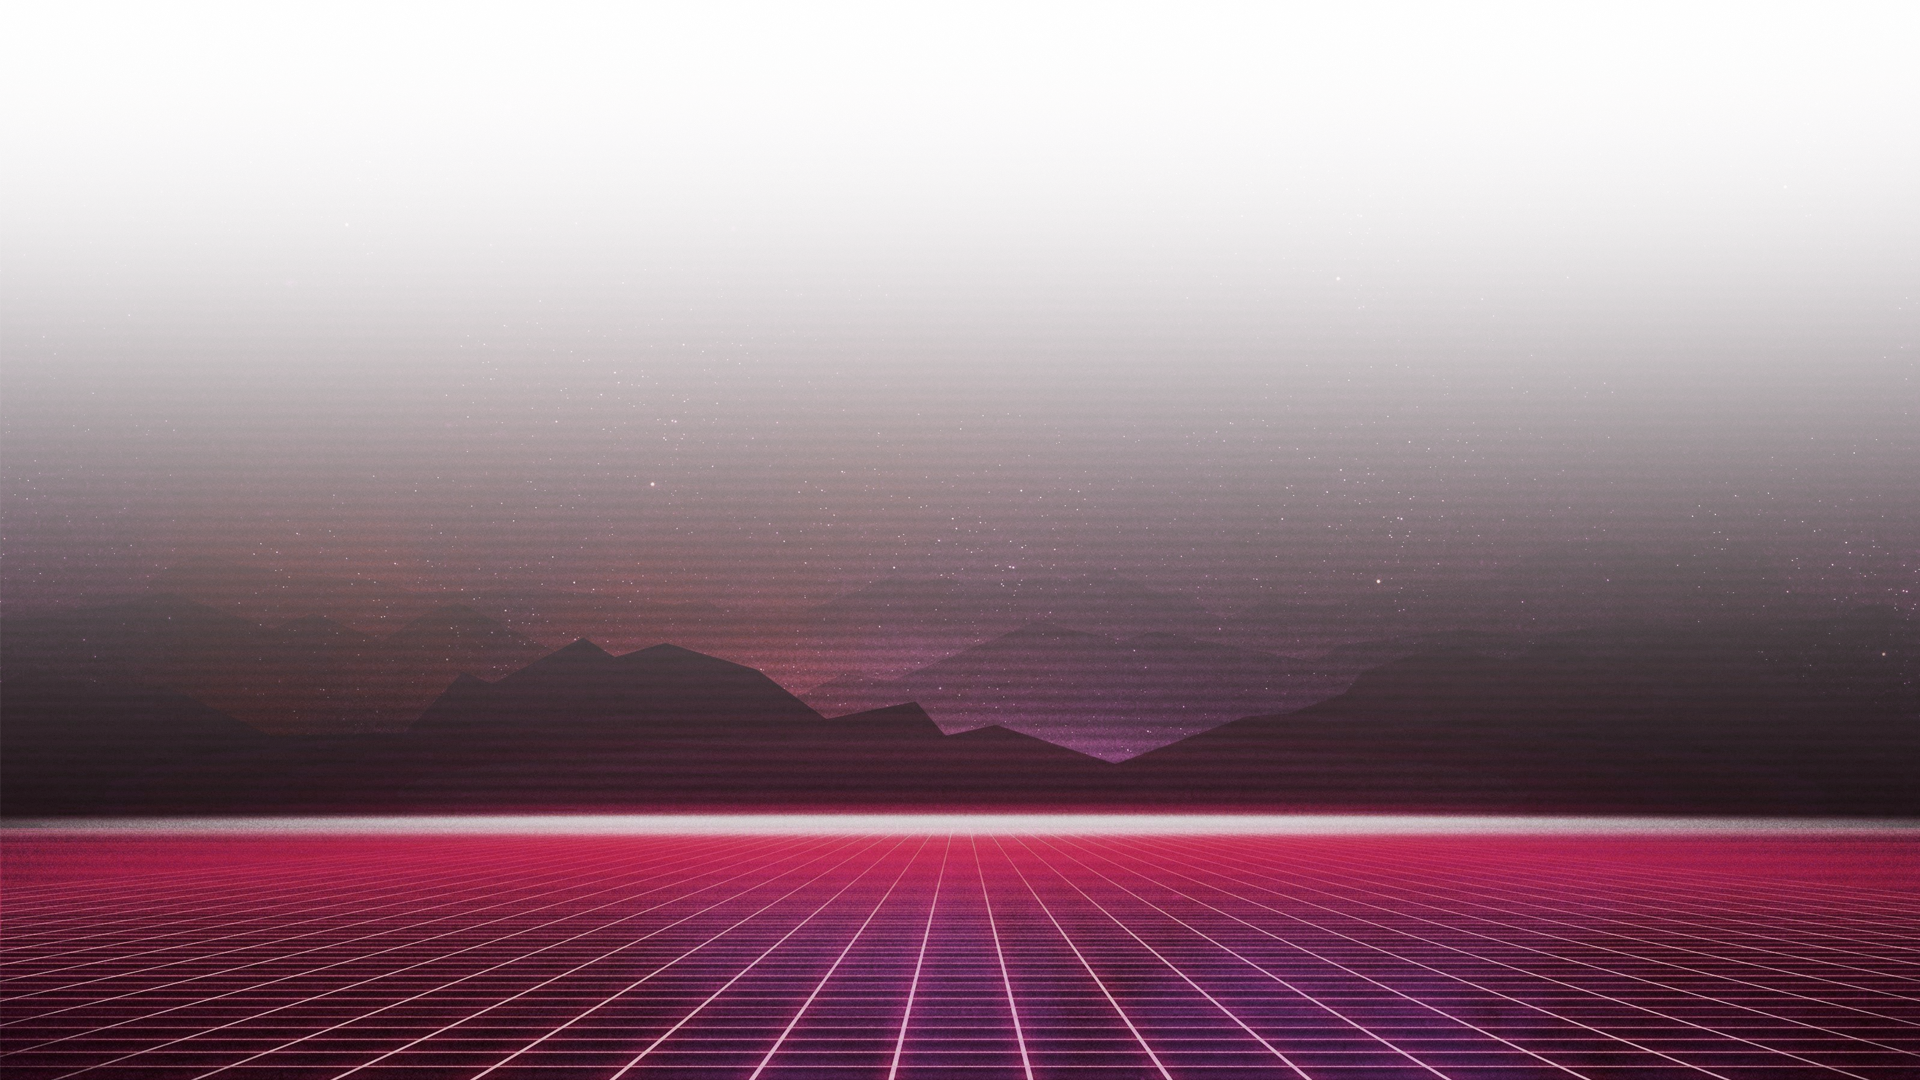
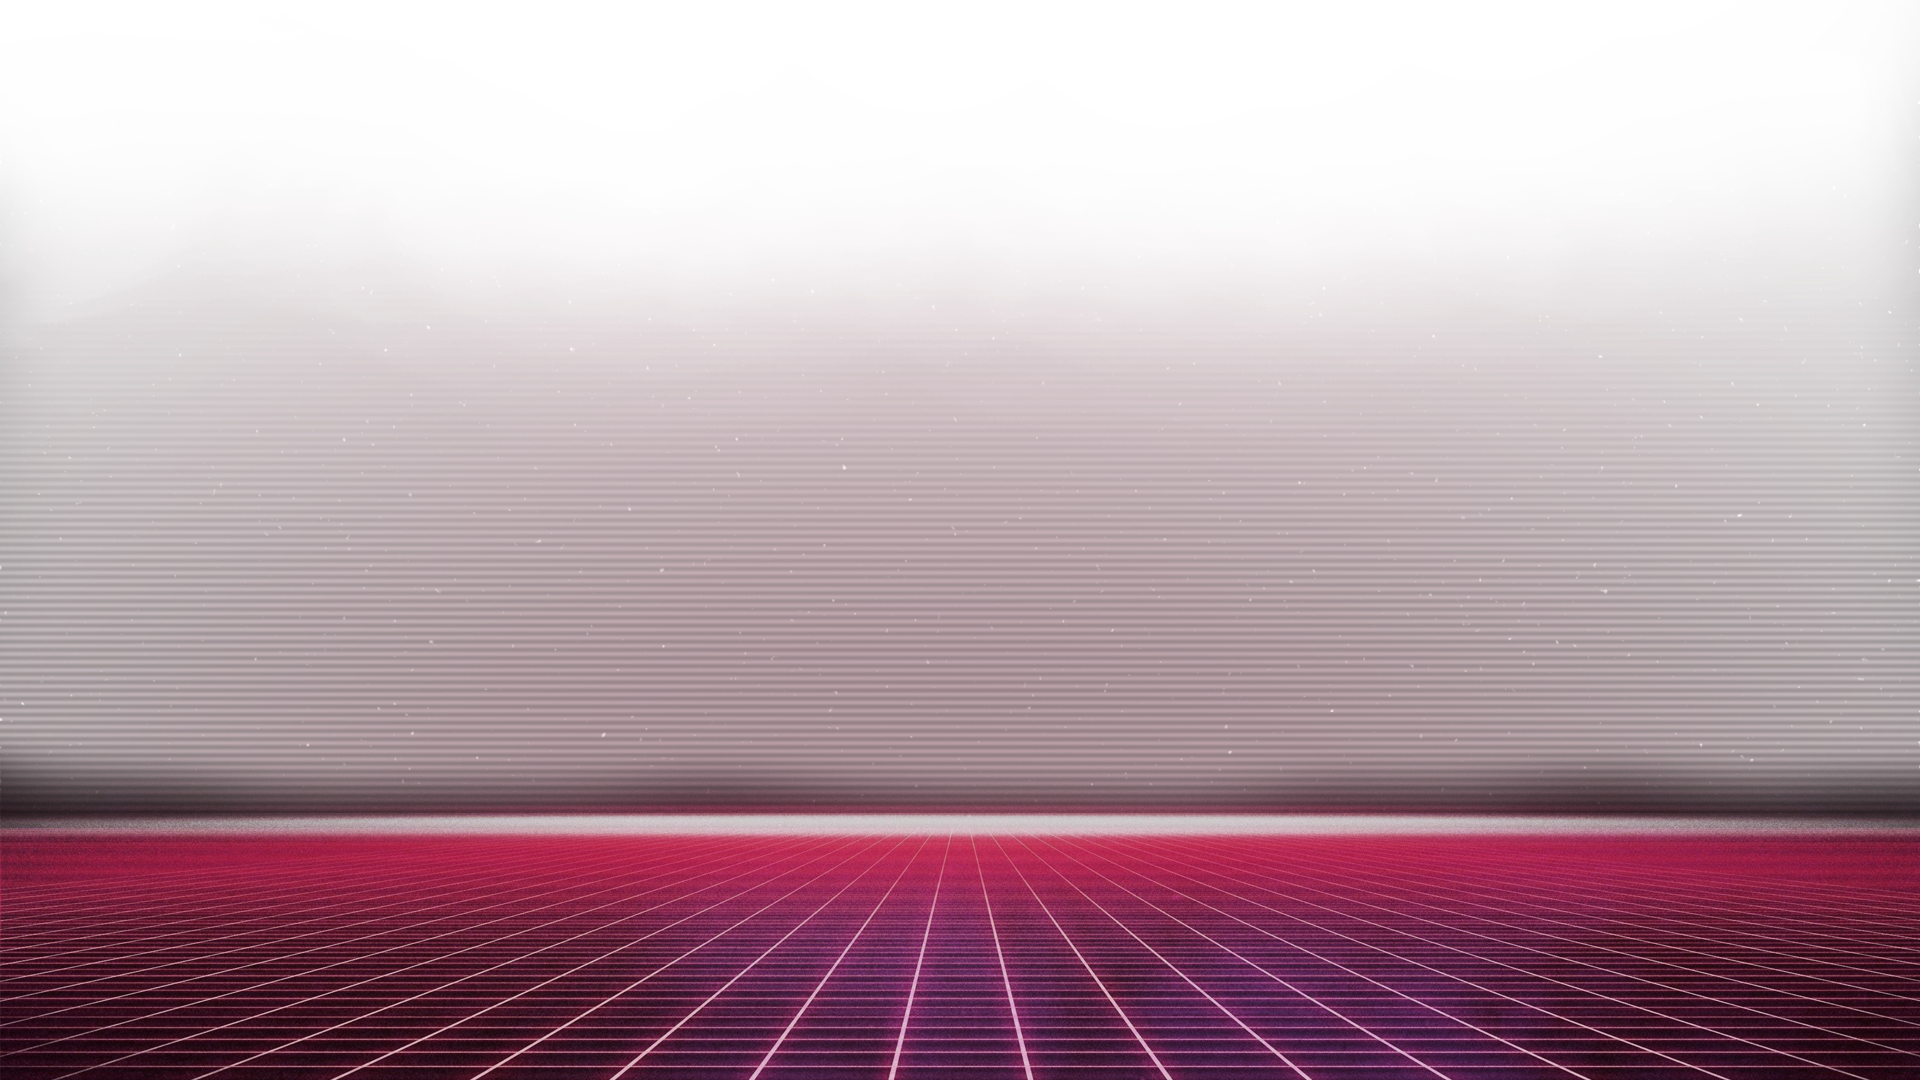
ok

diff --git a/style.css b/style.css
@@ -348,7 +348,7 @@ footer{
     width: 100vw;
     min-height: 600px;
     bottom: 0%;
-    background-image:url(images/Footer2.png);
+    background-image:url(images/Footer.png);
     background-position: bottom center;
     background-repeat: no-repeat;
     
